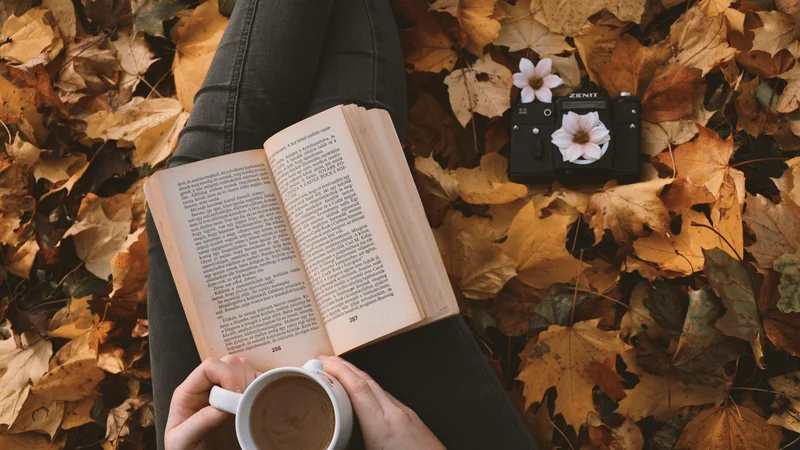
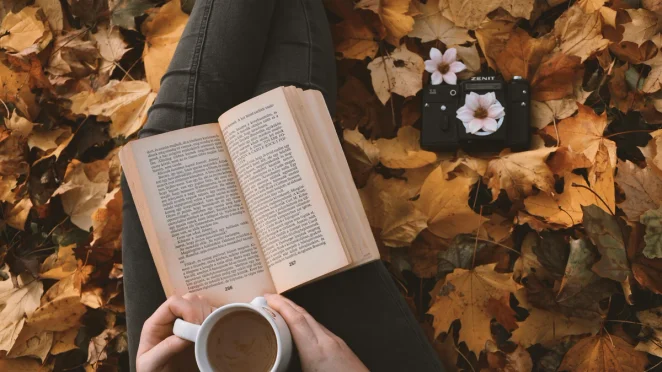
.

Changed region(s): [[0.997, 0.9462, 1.0, 0.9758]]

diff --git a/optimize-image.js b/optimize-image.js
@@ -8,7 +8,7 @@ const IMAGE_EXTENSIONS = ['.webp', '.jpg', '.jpeg', '.png'];
 
 // Configurações de tamanhos
 const SIZES = {
-  thumb: { width: 800, height: 450, suffix: '-thumb' },
+  thumb: { width: 662, height: 372, suffix: '-thumb' },
 };
 
 async function optimizeImages() {
